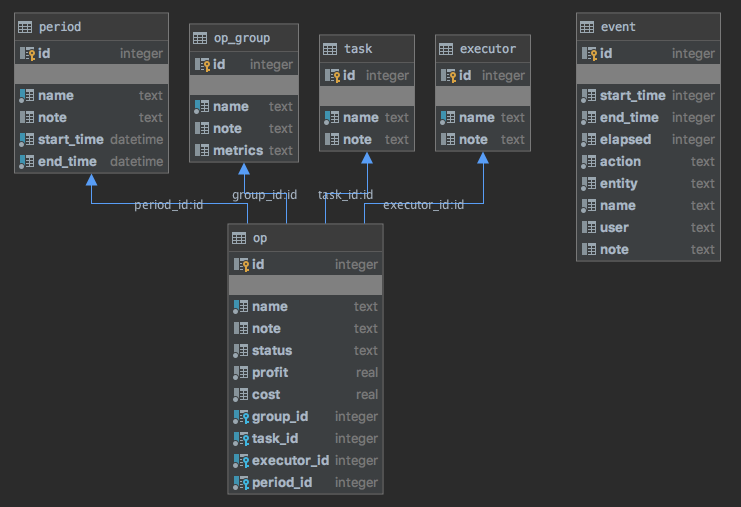
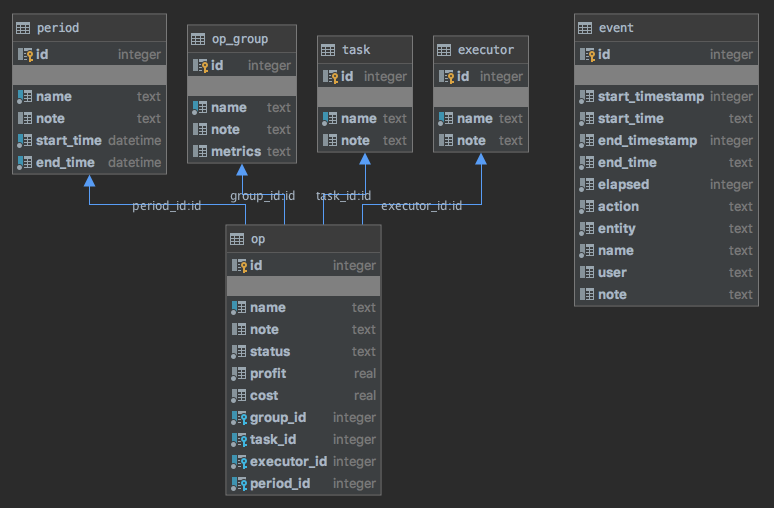
add start, end timestamps to Event

Changed region(s): [[0.0, 0.0, 0.9933, 0.9763], [0.3725, 0.0296, 0.4035, 0.0592]]

diff --git a/src/main/java/com/sergeykotov/operationmanagermvp/repository/EventRepository.java b/src/main/java/com/sergeykotov/operationmanagermvp/repository/EventRepository.java
@@ -3,26 +3,25 @@ package com.sergeykotov.operationmanagermvp.repository;
 import com.sergeykotov.operationmanagermvp.event.Event;
 import org.springframework.stereotype.Repository;
 
-import java.sql.Connection;
-import java.sql.PreparedStatement;
-import java.sql.ResultSet;
-import java.sql.SQLException;
+import java.sql.*;
 import java.util.ArrayList;
 import java.util.List;
 
 @Repository
 public class EventRepository {
-    private static final String EXTRACT_CMD = "select e.id, e.start_time, e.end_time, e.elapsed, e.action, e.entity, e.name, e.user, e.note from event e";
-    private static final String EXTRACT_SINCE_CMD = "select e.id, e.start_time, e.end_time, e.elapsed, e.action, e.entity, e.name, e.user, e.note from event e where e.start_time >= ?";
-    private static final String CREATE_CMD = "insert into event (start_time,end_time,elapsed,action,entity,name,user,note) values (?,?,?,?,?,?,?,?)";
+    private static final String EXTRACT_CMD = "select e.id, e.start_timestamp, e.start_time, e.end_timestamp, e.end_time, e.elapsed, e.action, e.entity, e.name, e.user, e.note from event e";
+    private static final String EXTRACT_SINCE_CMD = "select e.id, e.start_timestamp, e.start_time, e.end_timestamp, e.end_time, e.elapsed, e.action, e.entity, e.name, e.user, e.note from event e where e.start_time >= ?";
+    private static final String CREATE_CMD = "insert into event (start_timestamp,start_time,end_timestamp,end_time,elapsed,action,entity,name,user,note) values (?,?,?,?,?,?,?,?)";
 
     private List<Event> extract(ResultSet resultSet) throws SQLException {
         List<Event> events = new ArrayList<>();
         while (resultSet.next()) {
             Event event = new Event();
             event.setId(resultSet.getLong("id"));
-            event.setStart(resultSet.getLong("start_time"));
-            event.setEnd(resultSet.getLong("end_time"));
+            event.setStartTimestamp(resultSet.getLong("start_timestamp"));
+            event.setStart(resultSet.getTimestamp("start_time").toLocalDateTime());
+            event.setEndTimestamp(resultSet.getLong("end_timestamp"));
+            event.setEnd(resultSet.getTimestamp("end_time").toLocalDateTime());
             event.setElapsed(resultSet.getLong("elapsed"));
             event.setAction(Event.Action.valueOf(resultSet.getString("action")));
             event.setEntity(Event.Entity.valueOf(resultSet.getString("entity")));
@@ -55,14 +54,16 @@ public class EventRepository {
     public boolean create(Event event) throws SQLException {
         try (Connection connection = ConnectionPool.getConnection();
              PreparedStatement preparedStatement = connection.prepareStatement(CREATE_CMD)) {
-            preparedStatement.setLong(1, event.getStart());
-            preparedStatement.setLong(2, event.getEnd());
-            preparedStatement.setLong(3, event.getElapsed());
-            preparedStatement.setString(4, event.getAction().name());
-            preparedStatement.setString(5, event.getEntity().name());
-            preparedStatement.setString(6, event.getName());
-            preparedStatement.setString(7, event.getUser());
-            preparedStatement.setString(8, event.getNote());
+            preparedStatement.setLong(1, event.getStartTimestamp());
+            preparedStatement.setTimestamp(2, Timestamp.valueOf(event.getStart()));
+            preparedStatement.setLong(3, event.getEndTimestamp());
+            preparedStatement.setTimestamp(4, Timestamp.valueOf(event.getEnd()));
+            preparedStatement.setLong(5, event.getElapsed());
+            preparedStatement.setString(6, event.getAction().name());
+            preparedStatement.setString(7, event.getEntity().name());
+            preparedStatement.setString(8, event.getName());
+            preparedStatement.setString(9, event.getUser());
+            preparedStatement.setString(10, event.getNote());
             return preparedStatement.executeUpdate() == 1;
         }
     }

diff --git a/src/main/java/com/sergeykotov/operationmanagermvp/event/Event.java b/src/main/java/com/sergeykotov/operationmanagermvp/event/Event.java
@@ -1,11 +1,14 @@
 package com.sergeykotov.operationmanagermvp.event;
 
+import java.time.LocalDateTime;
 import java.util.Objects;
 
 public class Event {
     private long id;
-    private long start;
-    private long end;
+    private long startTimestamp;
+    private LocalDateTime start;
+    private long endTimestamp;
+    private LocalDateTime end;
     private long elapsed;
     private Action action;
     private Entity entity;
@@ -24,8 +27,19 @@ public class Event {
     public Event() {
     }
 
-    public Event(long start, long end, long elapsed, Action action, Entity entity, String name, String user, String note) {
+    public Event(long startTimestamp,
+                 LocalDateTime start,
+                 long endTimestamp,
+                 LocalDateTime end,
+                 long elapsed,
+                 Action action,
+                 Entity entity,
+                 String name,
+                 String user,
+                 String note) {
+        this.startTimestamp = startTimestamp;
         this.start = start;
+        this.endTimestamp = endTimestamp;
         this.end = end;
         this.elapsed = elapsed;
         this.action = action;
@@ -43,19 +57,35 @@ public class Event {
         this.id = id;
     }
 
-    public long getStart() {
+    public long getStartTimestamp() {
+        return startTimestamp;
+    }
+
+    public void setStartTimestamp(long startTimestamp) {
+        this.startTimestamp = startTimestamp;
+    }
+
+    public LocalDateTime getStart() {
         return start;
     }
 
-    public void setStart(long start) {
+    public void setStart(LocalDateTime start) {
         this.start = start;
     }
 
-    public long getEnd() {
+    public long getEndTimestamp() {
+        return endTimestamp;
+    }
+
+    public void setEndTimestamp(long endTimestamp) {
+        this.endTimestamp = endTimestamp;
+    }
+
+    public LocalDateTime getEnd() {
         return end;
     }
 
-    public void setEnd(long end) {
+    public void setEnd(LocalDateTime end) {
         this.end = end;
     }
 

diff --git a/src/main/java/com/sergeykotov/operationmanagermvp/event/EventService.java b/src/main/java/com/sergeykotov/operationmanagermvp/event/EventService.java
@@ -8,7 +8,10 @@ import org.slf4j.LoggerFactory;
 import org.springframework.beans.factory.annotation.Autowired;
 import org.springframework.stereotype.Service;
 
+import java.time.Instant;
+import java.time.LocalDateTime;
 import java.util.List;
+import java.util.TimeZone;
 
 @Service
 public class EventService {
@@ -49,7 +52,9 @@ public class EventService {
             return;
         }
         String user = ""; //TODO: obtain username from current session
-        Event event = new Event(start, end, end - start, action, entity, name, user, note);
+        LocalDateTime startTime = LocalDateTime.ofInstant(Instant.ofEpochSecond(start), TimeZone.getDefault().toZoneId());
+        LocalDateTime endTime = LocalDateTime.ofInstant(Instant.ofEpochSecond(end), TimeZone.getDefault().toZoneId());
+        Event event = new Event(start, startTime, end, endTime, end - start, action, entity, name, user, note);
         try {
             eventRepository.create(event);
         } catch (Exception e) {
